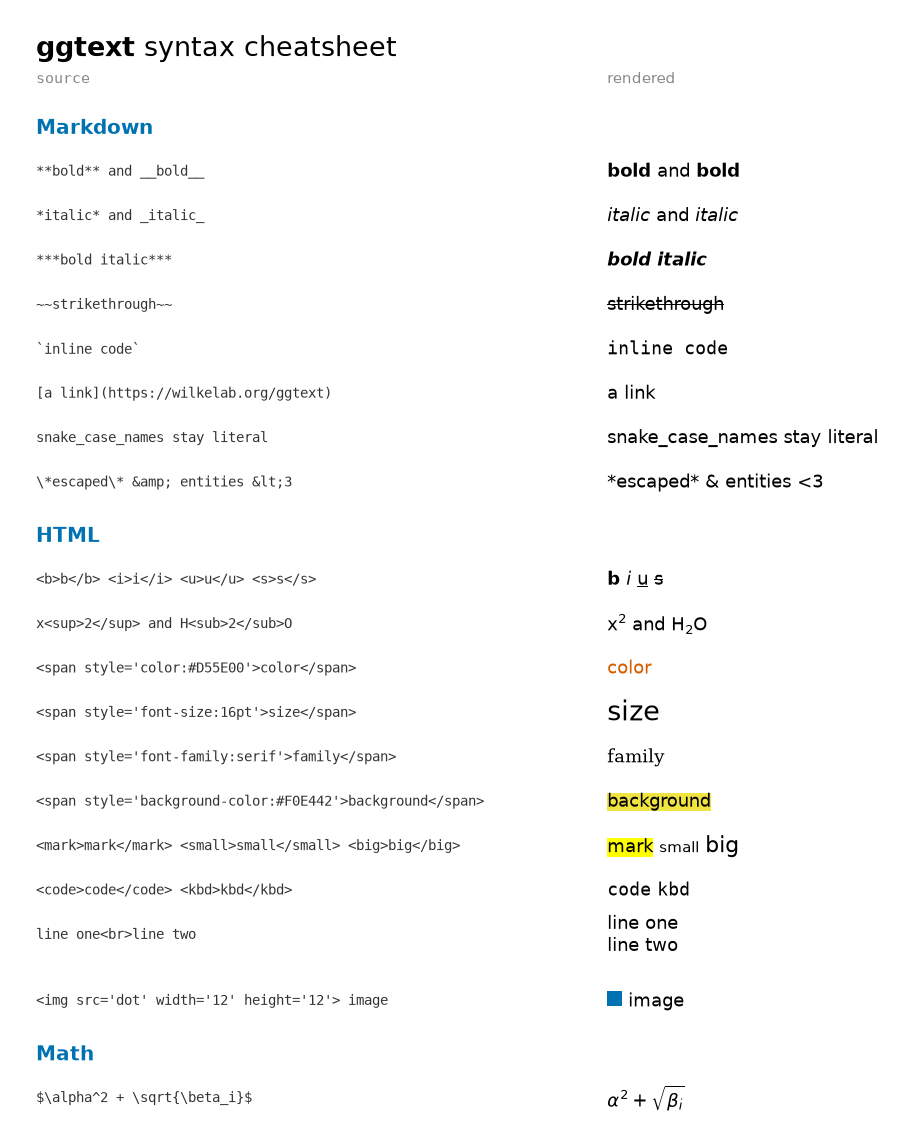
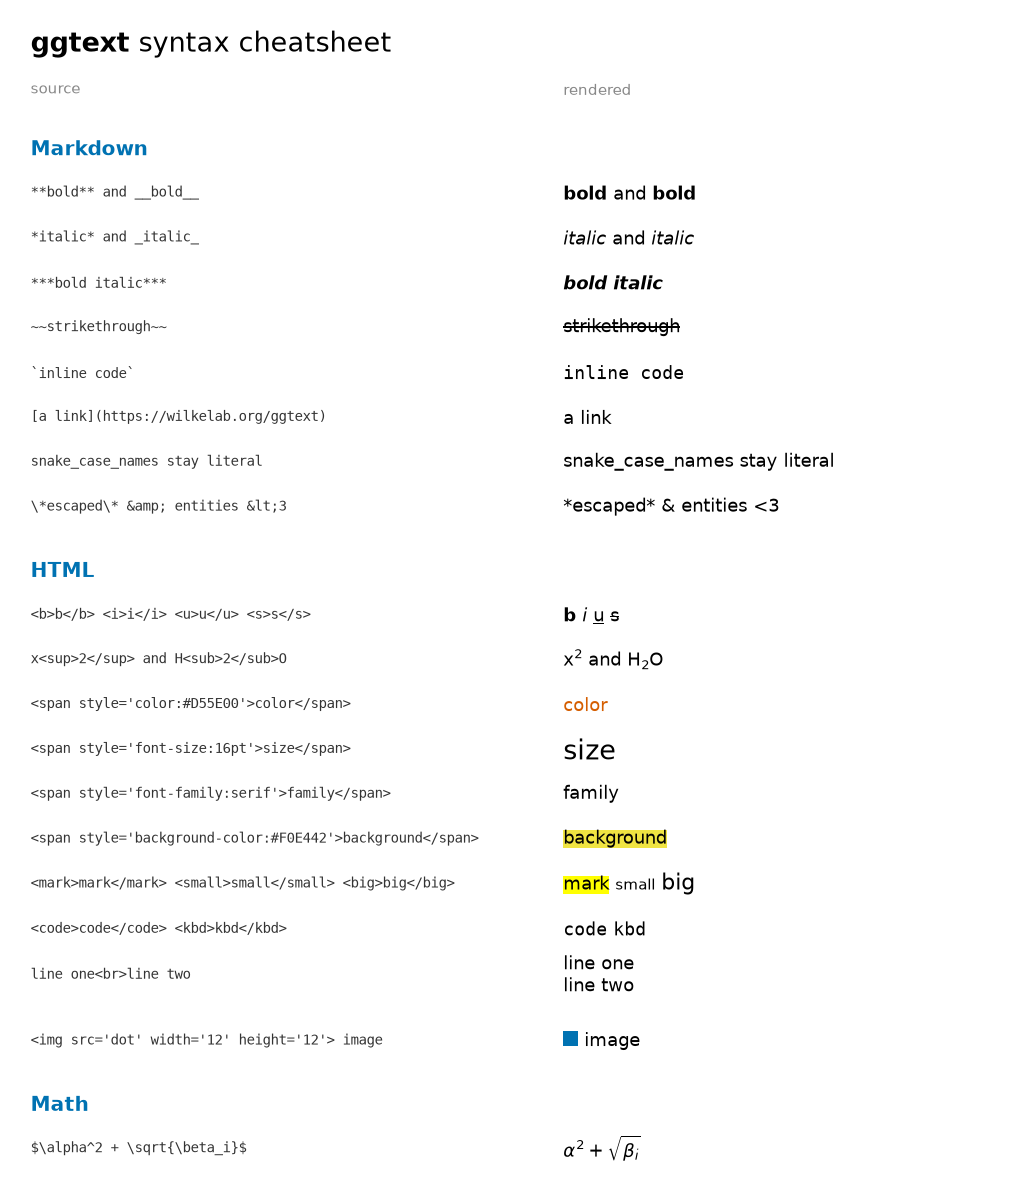
examples: port the syntax cheatsheet to plotnine
The cheatsheet drew its two columns with ggtext's matplotlib helpers.
It now builds the same page as a plotnine plot: geom_text for the source
column, a frameless geom_richtext for the rendered column and the
section headings, and an element_markdown title. Regenerated the image
and its gallery section.

diff --git a/examples/10_syntax_cheatsheet.py b/examples/10_syntax_cheatsheet.py
@@ -11,10 +11,22 @@ import matplotlib
 
 matplotlib.use("Agg")
 
-import matplotlib.pyplot as plt
 import numpy as np
+import pandas as pd
+from plotnine import (
+    aes,
+    annotate,
+    geom_text,
+    ggplot,
+    labs,
+    scale_x_continuous,
+    scale_y_continuous,
+    theme,
+    theme_void,
+)
 
 import ggtext
+from ggtext import element_markdown, geom_richtext
 
 # Images go to docs/images/; tests redirect them with GGTEXT_EXAMPLES_OUT
 OUT = Path(
@@ -50,28 +62,53 @@ ROWS = [
     ("$\\alpha^2 + \\sqrt{\\beta_i}$", None),
 ]
 
-fig = plt.figure(figsize=(8.5, 10), dpi=120)
-ggtext.set_suptitle(
-    fig, "**ggtext** syntax cheatsheet", fontsize=16, x=0.06, ha="left", y=0.985
-)
-fig.text(0.06, 0.945, "source", fontsize=9, color="#888888", family="monospace")
-fig.text(0.62, 0.945, "rendered", fontsize=9, color="#888888")
+SECTIONS = ("Markdown", "HTML", "Math")
 
-y = 0.915
+# One row per line of the cheatsheet, top to bottom
+rows = []
+y = 0.0
 for source, _ in ROWS:
-    if source in ("Markdown", "HTML", "Math"):
-        y -= 0.008
-        ggtext.text(
-            fig, 0.06, y, f"**{source}**", fontsize=12, color="#0072B2", va="center"
-        )
-        y -= 0.036
+    if source in SECTIONS:
+        y -= 0.4
+        rows.append({"y": y, "source": "", "rendered": f"**{source}**", "head": True})
+        y -= 1.0
         continue
-    fig.text(0.06, y, source, fontsize=8.5, family="monospace", color="#333333",
-             va="center", parse_math=False)  # fmt: skip
-    ggtext.text(fig, 0.62, y, source, fontsize=11, va="center")
-    height = 0.055 if "<br>" in source else 0.037
-    y -= height
+    # matplotlib would read $...$ in the plain source column as math
+    shown = source.replace("$", "\\$")
+    rows.append({"y": y, "source": shown, "rendered": source, "head": False})
+    y -= 1.5 if "<br>" in source else 1.0
+df = pd.DataFrame(rows)
+heads, entries = df[df["head"]], df[~df["head"]]
+
+p = (
+    ggplot(mapping=aes(y="y"))
+    + geom_text(
+        aes(x=0, label="source"), entries,
+        ha="left", size=8.5, family="monospace", color="#333333",
+    )
+    + geom_richtext(
+        aes(x=1, label="rendered"), entries,
+        hjust=0, size=11, fill="none", label_color="none", label_padding=0,
+    )
+    + geom_richtext(
+        aes(x=0, label="rendered"), heads,
+        hjust=0, size=12, color="#0072B2",
+        fill="none", label_color="none", label_padding=0,
+    )
+    + annotate("text", x=[0, 1], y=0.9, label=["source", "rendered"],
+               ha="left", size=9, color="#888888")
+    + scale_x_continuous(limits=(0, 1.8), expand=(0, 0))
+    + scale_y_continuous(expand=(0.02, 0))
+    + labs(title="**ggtext** syntax cheatsheet")
+    + theme_void()
+    + theme(
+        figure_size=(8.5, 10),
+        dpi=120,
+        plot_margin=0.03,
+        plot_title=element_markdown(size=16, ha="left"),
+    )
+)  # fmt: skip
 
 if __name__ == "__main__":
-    fig.savefig(OUT / "syntax_cheatsheet.png", bbox_inches="tight", pad_inches=0.3)
+    p.save(OUT / "syntax_cheatsheet.png", verbose=False)
     print("wrote", OUT / "syntax_cheatsheet.png")

diff --git a/docs/gallery.md b/docs/gallery.md
@@ -935,10 +935,22 @@ import matplotlib
 
 matplotlib.use("Agg")
 
-import matplotlib.pyplot as plt
 import numpy as np
+import pandas as pd
+from plotnine import (
+    aes,
+    annotate,
+    geom_text,
+    ggplot,
+    labs,
+    scale_x_continuous,
+    scale_y_continuous,
+    theme,
+    theme_void,
+)
 
 import ggtext
+from ggtext import element_markdown, geom_richtext
 
 # Images go to docs/images/; tests redirect them with GGTEXT_EXAMPLES_OUT
 OUT = Path(
@@ -974,30 +986,55 @@ ROWS = [
     ("$\\alpha^2 + \\sqrt{\\beta_i}$", None),
 ]
 
-fig = plt.figure(figsize=(8.5, 10), dpi=120)
-ggtext.set_suptitle(
-    fig, "**ggtext** syntax cheatsheet", fontsize=16, x=0.06, ha="left", y=0.985
-)
-fig.text(0.06, 0.945, "source", fontsize=9, color="#888888", family="monospace")
-fig.text(0.62, 0.945, "rendered", fontsize=9, color="#888888")
+SECTIONS = ("Markdown", "HTML", "Math")
 
-y = 0.915
+# One row per line of the cheatsheet, top to bottom
+rows = []
+y = 0.0
 for source, _ in ROWS:
-    if source in ("Markdown", "HTML", "Math"):
-        y -= 0.008
-        ggtext.text(
-            fig, 0.06, y, f"**{source}**", fontsize=12, color="#0072B2", va="center"
-        )
-        y -= 0.036
+    if source in SECTIONS:
+        y -= 0.4
+        rows.append({"y": y, "source": "", "rendered": f"**{source}**", "head": True})
+        y -= 1.0
         continue
-    fig.text(0.06, y, source, fontsize=8.5, family="monospace", color="#333333",
-             va="center", parse_math=False)  # fmt: skip
-    ggtext.text(fig, 0.62, y, source, fontsize=11, va="center")
-    height = 0.055 if "<br>" in source else 0.037
-    y -= height
+    # matplotlib would read $...$ in the plain source column as math
+    shown = source.replace("$", "\\$")
+    rows.append({"y": y, "source": shown, "rendered": source, "head": False})
+    y -= 1.5 if "<br>" in source else 1.0
+df = pd.DataFrame(rows)
+heads, entries = df[df["head"]], df[~df["head"]]
+
+p = (
+    ggplot(mapping=aes(y="y"))
+    + geom_text(
+        aes(x=0, label="source"), entries,
+        ha="left", size=8.5, family="monospace", color="#333333",
+    )
+    + geom_richtext(
+        aes(x=1, label="rendered"), entries,
+        hjust=0, size=11, fill="none", label_color="none", label_padding=0,
+    )
+    + geom_richtext(
+        aes(x=0, label="rendered"), heads,
+        hjust=0, size=12, color="#0072B2",
+        fill="none", label_color="none", label_padding=0,
+    )
+    + annotate("text", x=[0, 1], y=0.9, label=["source", "rendered"],
+               ha="left", size=9, color="#888888")
+    + scale_x_continuous(limits=(0, 1.8), expand=(0, 0))
+    + scale_y_continuous(expand=(0.02, 0))
+    + labs(title="**ggtext** syntax cheatsheet")
+    + theme_void()
+    + theme(
+        figure_size=(8.5, 10),
+        dpi=120,
+        plot_margin=0.03,
+        plot_title=element_markdown(size=16, ha="left"),
+    )
+)  # fmt: skip
 
 if __name__ == "__main__":
-    fig.savefig(OUT / "syntax_cheatsheet.png", bbox_inches="tight", pad_inches=0.3)
+    p.save(OUT / "syntax_cheatsheet.png", verbose=False)
     print("wrote", OUT / "syntax_cheatsheet.png")
 ```
 
